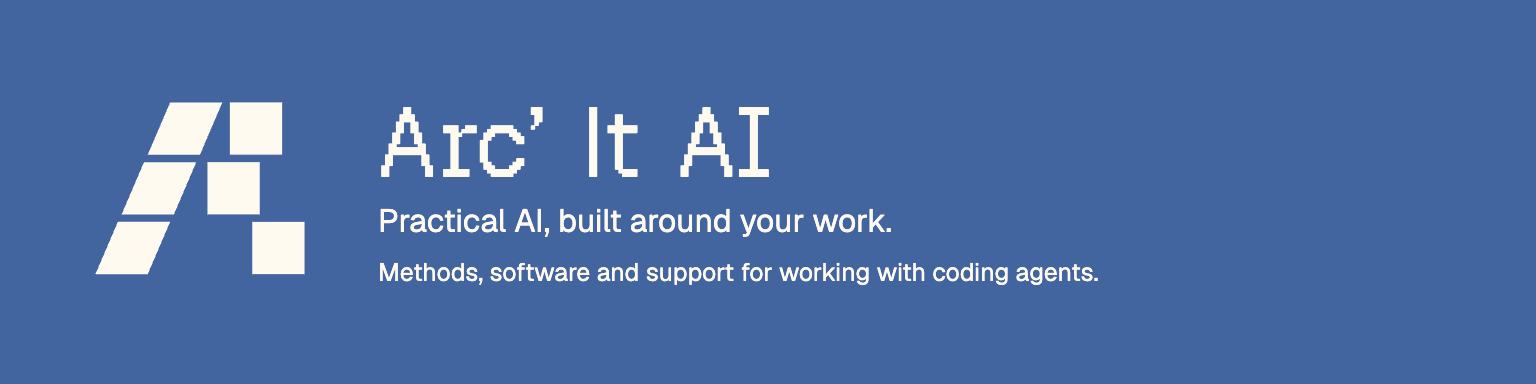
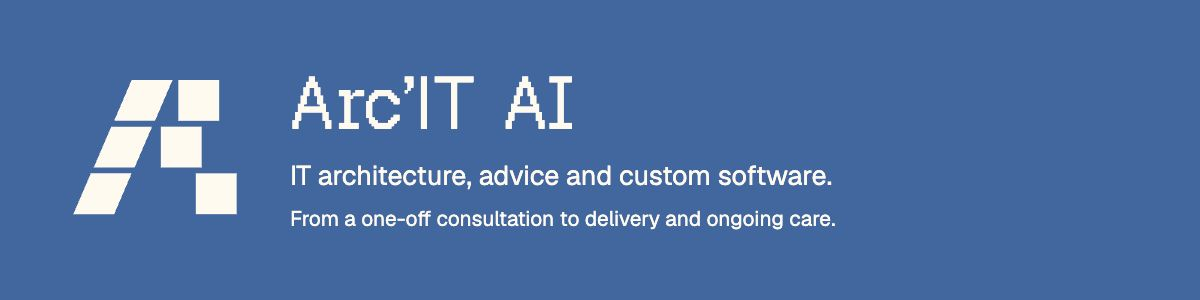
Clarify IT consulting, architecture and software delivery

diff --git a/profile/assets/banner.html b/profile/assets/banner.html
@@ -2,24 +2,24 @@
 <html lang="en">
 <meta charset="utf-8">
 <meta name="viewport" content="width=device-width,initial-scale=1">
-<title>Arc’ It AI</title>
+<title>Arc’IT AI</title>
 <style>
   @font-face { font-family: Geist; src: url("fonts/geist-sans-variable.woff2"); }
   @font-face { font-family: Pixel; src: url("fonts/geist-pixel-square.woff2"); }
   * { box-sizing: border-box; }
   body { margin: 0; background: #4265a0; color: #fffaf0; }
-  main { width: 1536px; height: 384px; display: flex; align-items: center; gap: 66px; padding: 64px 88px; }
-  img { width: 224px; height: 224px; flex-shrink: 0; }
-  h1 { margin: 0 0 4px; font: 96px/1.05 Pixel, monospace; font-weight: 400; }
-  p { margin: 0; font: 32px/1.45 Geist, sans-serif; }
-  p + p { margin-top: 10px; font-size: 25px; }
+  main { width: 1200px; height: 300px; display: flex; align-items: center; gap: 48px; padding: 44px 68px; }
+  img { width: 174px; height: 174px; flex-shrink: 0; }
+  h1 { margin: 0 0 14px; font: 72px/1.05 Pixel, monospace; font-weight: 400; }
+  p { margin: 0; font: 27px/1.45 Geist, sans-serif; }
+  p + p { margin-top: 8px; font-size: 21px; }
 </style>
-<main aria-label="Arc’ It AI. Practical AI, built around your work.">
-  <img src="arcitai-mark.svg" alt="Arc’ It AI">
+<main aria-label="Arc’IT AI. IT architecture, advice and custom software.">
+  <img src="arcitai-mark.svg" alt="Arc’IT AI">
   <div>
-    <h1>Arc’ It AI</h1>
-    <p>Practical AI, built around your work.</p>
-    <p>Methods, software and support for working with coding agents.</p>
+    <h1>Arc’IT AI</h1>
+    <p>IT architecture, advice and custom software.</p>
+    <p>From a one-off consultation to delivery and ongoing care.</p>
   </div>
 </main>
 </html>

diff --git a/profile/README.md b/profile/README.md
@@ -1,29 +1,25 @@
-![Arc’ It AI — Practical AI, built around your work.](https://raw.githubusercontent.com/arcitai/.github/main/profile/assets/arcitai-banner.png)
+![Arc’IT AI — IT architecture, advice and custom software.](https://raw.githubusercontent.com/arcitai/.github/main/profile/assets/arcitai-banner.png)
 
-# Arc’ It AI
+# Arc’IT AI
 
-Practical AI methods, software and support. We help turn useful ideas into
-working systems, with clear responsibilities and a process people can trust.
+IT consulting, architecture and custom software. From a one-off consultation
+to building, delivering and maintaining a working solution.
 
-## Start with Factory
+## How we help
 
-[Factory](https://github.com/arcitai/factory) is our open method for working
-with coding agents. It brings together **Foundation** to prepare a project,
-**AgentOps** to coordinate the work, and **ADLC** to build, review and deliver it.
-T3 Code, native coding harnesses and GitHub provide the workspace and tools.
+- **Advice and architecture:** technical sparring, system reviews and help choosing a practical way forward.
+- **Custom development:** apps, integrations and software built around the work it needs to support.
+- **Delivery and ongoing care:** getting solutions into use and keeping them useful, including self-hosted systems and local AI setups.
 
-Use it with your own application, standards and infrastructure. Start with one
-bounded task and verify the result before relying on unattended work.
+[Visit Arc’IT AI](https://arcitai.com) · [Get in touch](mailto:hello@arcitai.com)
 
-[Explore Factory](https://github.com/arcitai/factory) · [Visit Arc’ It AI](https://arcitai.com) · [Get in touch](mailto:hello@arcitai.com)
+## How we build
 
-## Repositories
+[Factory](https://github.com/arcitai/factory) is our open method for preparing,
+coordinating, building and reviewing work with coding agents. It brings together
+Foundation, AgentOps and ADLC, with clear responsibilities and checks along the way.
 
 | Repository | Purpose |
 | --- | --- |
-| [Factory](https://github.com/arcitai/factory) | The current Foundation, AgentOps and ADLC method and setup package |
+| [Factory](https://github.com/arcitai/factory) | Methods and tools for building and reviewing software with coding agents |
 | [Website](https://github.com/arcitai/arcitai-website) | Source for arcitai.com |
-
-The earlier [Factory implementation](https://github.com/arcitai/factory-software-defence)
-and [AIOS pilot](https://github.com/arcitai/aios-pilot) are public archives.
-Current development happens in the repositories above.

diff --git a/README.md b/README.md
@@ -1,11 +1,11 @@
-# Arc’ It AI on GitHub
+# Arc’IT AI on GitHub
 
 The public organisation profile lives in `profile/README.md`.
-`profile/assets/banner.html` is the editable source for the 1536 × 384 banner.
+`profile/assets/banner.html` is the editable source for the 1200 × 300 banner.
 Brand assets match the [website](https://github.com/arcitai/arcitai-website/tree/46e5566e5f4d1f89fc36df43cd5a35c79ff504f5); the Geist font license is included.
 
 Code and documentation are MIT licensed. As in the website's
 [license notice](https://github.com/arcitai/arcitai-website/blob/46e5566e5f4d1f89fc36df43cd5a35c79ff504f5/README.md#license),
-the Arc’ It AI name and logo, including the avatar and their use in the banner,
+the Arc’IT AI name and logo, including the avatar and their use in the banner,
 are not licensed for reuse by that software license. Geist fonts retain their
 separate license in `profile/assets/fonts/LICENSE.txt`.
